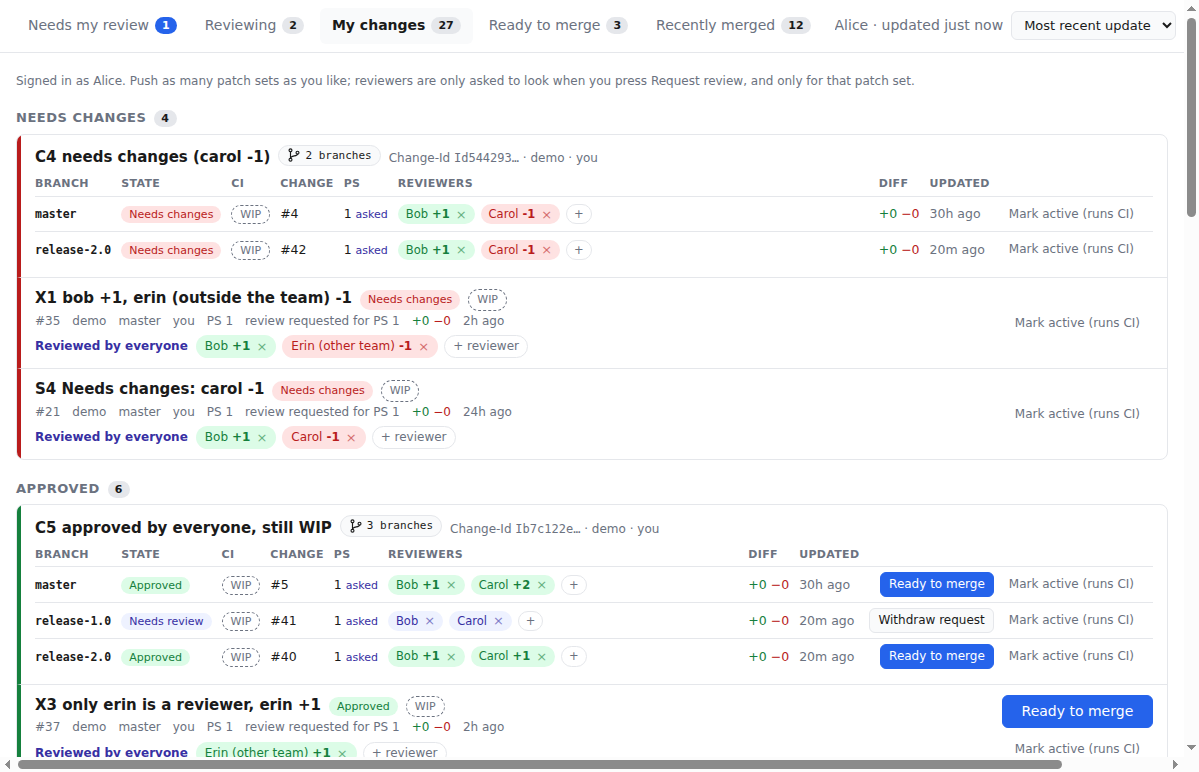
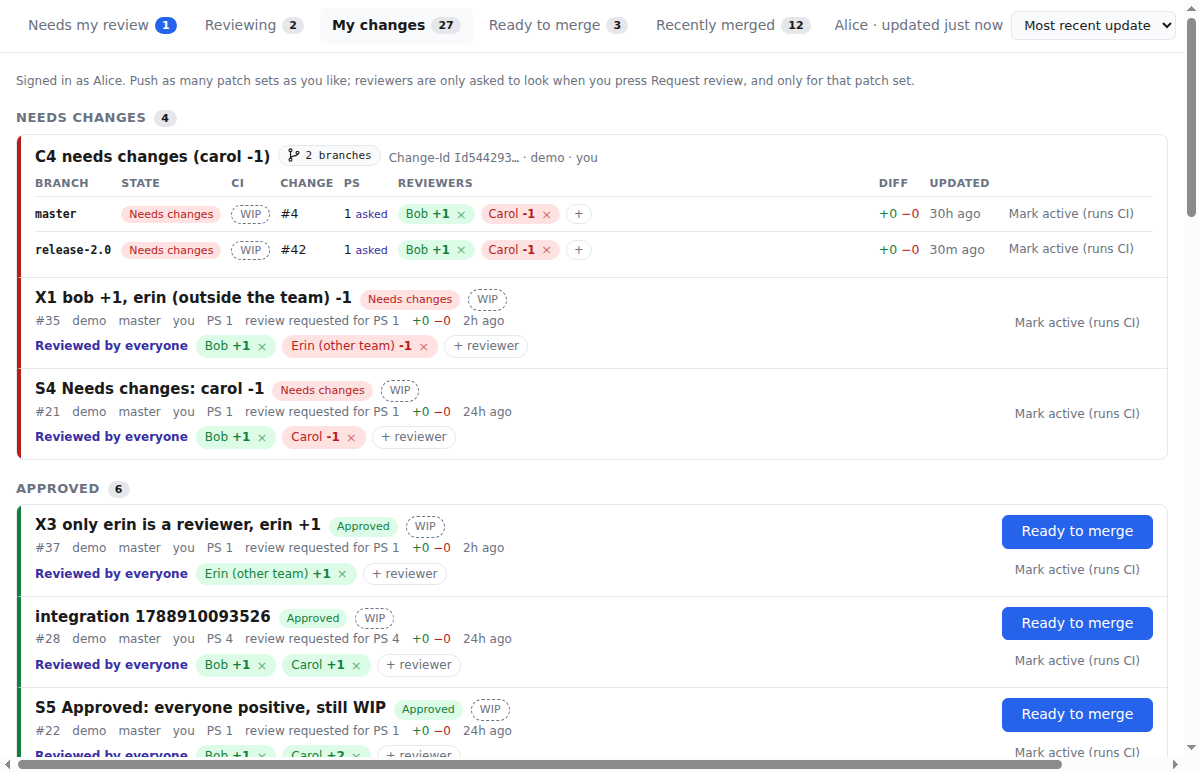
Gerrit Review Board: one urgency order for family cards
The branch that leads a card is chosen by a fixed order, the same for the
owner and for a reviewer: needs changes, needs review, in progress,
approved, ready to merge. Ties go to the earliest section, so on Reviewing
a branch waiting on you beats one already reviewed.

Changed region(s): [[0.0309, 0.6528, 0.4629, 0.9948], [0.6172, 0.6528, 0.9875, 0.9948], [0.4937, 0.6839, 0.5555, 0.715]]

diff --git a/src/renderer/src/components/Board.tsx b/src/renderer/src/components/Board.tsx
@@ -1,6 +1,6 @@
 import { useMemo } from 'react'
 import type { AccountInfo, ChangeAction, ChangeView, ReviewState, TabId } from '../../../shared/types.ts'
-import { STATE_LABEL, displayName, familyKey, groupByChangeId, sortByBranch, sortViews, type ChangeFamily, type SortId } from '../../../shared/model.ts'
+import { STATE_LABEL, displayName, familyKey, groupByChangeId, sortByBranch, sortViews, urgency, type ChangeFamily, type SortId } from '../../../shared/model.ts'
 import { ChangeRow, FamilyCard } from './ChangeRow.tsx'
 
 export type { TabId }
@@ -139,19 +139,28 @@ export function Board(props: {
   }, [props.views])
   if (props.loading || !props.self) return <div className="panel muted">Loading...</div>
   const groups = groupsFor(props.tab, props.views)
-  // A family is one card. It goes in the first section of this tab that has a
-  // member: section order is urgency order, the things that need my action
-  // first. The count of a section still counts the changes in that state.
-  const placed = new Set<string>()
-  const sections = groups.map((g) => ({
+  // A family is one card, led by its most urgent branch on this tab (see
+  // URGENCY). It sits in that branch's section, at that branch's sort
+  // position. A tie goes to the earliest section, so on Reviewing a branch
+  // waiting on you beats one you already reviewed. Section counts still count
+  // the changes in that state.
+  const sorted = groups.map((g) => sortViews(g.items, props.sort))
+  const lead = new Map<string, { section: number; view: ChangeView }>()
+  sorted.forEach((items, section) => {
+    for (const view of items) {
+      const key = familyKey(view.change)
+      if ((families.get(key)?.members.length ?? 1) === 1) continue
+      const cur = lead.get(key)
+      if (!cur || urgency(view.state) < urgency(cur.view.state)) lead.set(key, { section, view })
+    }
+  })
+  const sections = groups.map((g, section) => ({
     ...g,
-    rows: sortViews(g.items, props.sort).flatMap((v): Row[] => {
+    rows: sorted[section]!.flatMap((v): Row[] => {
       const key = familyKey(v.change)
       const f = families.get(key)
       if (!f || f.members.length === 1) return [{ view: v, family: null }]
-      if (placed.has(key)) return []
-      placed.add(key)
-      return [{ view: v, family: f }]
+      return lead.get(key)?.view === v ? [{ view: v, family: f }] : []
     }),
   }))
   if (groups.length === 0) {

diff --git a/src/shared/model.test.ts b/src/shared/model.test.ts
@@ -1,6 +1,6 @@
 import { test } from 'node:test'
 import assert from 'node:assert/strict'
-import { actionCounts, classify, classifyAll, describeActions, glyphTitle, groupByChangeId, shortChangeId, sortByBranch, sortViews } from './model.ts'
+import { actionCounts, classify, classifyAll, describeActions, glyphTitle, groupByChangeId, shortChangeId, sortByBranch, sortViews, urgency } from './model.ts'
 import { REVIEW_REQUESTED_KEY } from './constants.ts'
 import type { AccountInfo, ChangeInfo } from './types.ts'
 
@@ -239,4 +239,12 @@ test('sortByBranch: project, then branch, then number; input untouched', () => {
 test('shortChangeId trims long ids only', () => {
   assert.equal(shortChangeId('I3f2a91c0deadbeef'), 'I3f2a91c\u2026')
   assert.equal(shortChangeId('demo~4'), 'demo~4')
+})
+
+test('urgency: fix first, then look, then iterate, then mark, then wait on the merger', () => {
+  const states = ['ready-to-merge', 'approved', 'merged', 'in-progress', 'needs-review', 'needs-changes'] as const
+  assert.deepEqual(
+    [...states].sort((a, b) => urgency(a) - urgency(b)),
+    ['needs-changes', 'needs-review', 'in-progress', 'approved', 'ready-to-merge', 'merged'],
+  )
 })

diff --git a/src/shared/model.ts b/src/shared/model.ts
@@ -261,6 +261,27 @@ export function sortByBranch(views: ChangeView[]): ChangeView[] {
     )
 }
 
+/**
+ * Urgency of a state, most urgent first. The same for the owner and for a
+ * reviewer: a negative outcome needs a fix, an open request needs a look, a
+ * change being iterated may need attention soon, an approved change only
+ * waits for the owner to mark it, and a ready change waits on the merger.
+ * Used to decide which branch of a family leads the card.
+ */
+export const URGENCY: readonly ReviewState[] = [
+  'needs-changes',
+  'needs-review',
+  'in-progress',
+  'approved',
+  'ready-to-merge',
+  'merged',
+  'abandoned',
+]
+
+export function urgency(state: ReviewState): number {
+  return URGENCY.indexOf(state)
+}
+
 /** Short form of a Change-Id for labels: "I3f2a91c…". */
 export function shortChangeId(key: string): string {
   return key.length > 9 ? key.slice(0, 8) + '\u2026' : key

diff --git a/README.md b/README.md
@@ -98,10 +98,11 @@ Change-Id of the original commit. The application shows the changes that
 have the same Change-Id as one card with a table. Each branch is a row in the
 table.
 
-- The card is in the section of the most urgent open branch. The order of
-  the sections on a tab is the order of urgency: the changes that wait on you
-  come first. On "My changes" that order is Needs changes, Approved, Ready to
-  merge, Out for review, In progress.
+- The card is in the section of its most urgent branch. The order of
+  urgency is the same for the owner and for a reviewer: Needs changes, Needs
+  review, In progress, Approved, Ready to merge. If two branches have the
+  same state, the card goes to the earlier section. Thus, on "Reviewing", a
+  branch that waits on you comes before a branch that you reviewed.
 - Each row shows the branch, the state, the WIP or Active badge, the change
   number, the patch set, the reviewers with their votes, the size of the
   diff, the time of the last update and the buttons of that change. Each
